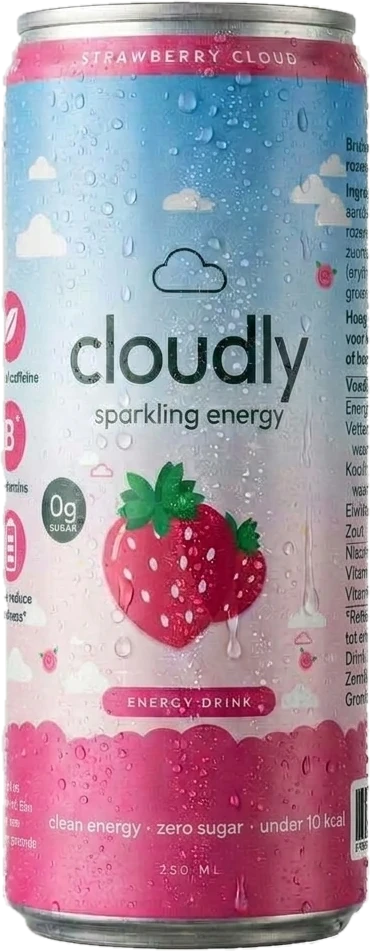
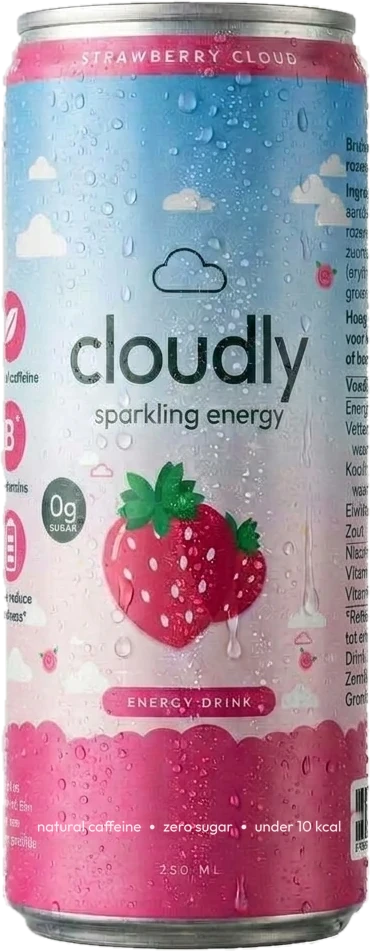
Can photo: replace 'clean energy' line with 'natural caffeine • zero sugar • under 10 kcal'
Claude-Session: https://claude.ai/code/session_015Aff97EdtKyYaoNHtg5nGv

Changed region(s): [[0.0892, 0.8538, 0.9811, 0.8843]]

diff --git a/public/index.html b/public/index.html
@@ -860,7 +860,7 @@ footer p { margin: 0; color: var(--ink); font-size: 14px }
       '<rect x="4" y="14" width="100" height="238" fill="url(#' + id + ')"/></g>' +
       '<rect x="14" y="248" width="80" height="10" rx="5" fill="url(#m' + id + ')"/></svg>';
   }
-  const CANPH = '/photos/strawberry-cloud-can.webp?v=3';
+  const CANPH = '/photos/strawberry-cloud-can.webp?v=4';
   const IMG = { grapefruit: CANPH };
   function canPic(key) { return IMG[key] ? '<img class="can3d" src="' + IMG[key] + '" alt="Cloudly ' + FL[key].name + ' can">' : can(key); }
 

diff --git a/public/community-en.html b/public/community-en.html
@@ -142,7 +142,7 @@ footer a{color:inherit}
     <div class="canwrap" aria-hidden="true">
       <div class="polaroid p1"><i></i><b>@you</b></div>
       <div class="polaroid p2"><i></i><b>@you, too</b></div>
-      <img src="/photos/strawberry-cloud-can.webp?v=3" alt="" width="400" height="900">
+      <img src="/photos/strawberry-cloud-can.webp?v=4" alt="" width="400" height="900">
     </div>
   </div>
 

diff --git a/public/community.html b/public/community.html
@@ -142,7 +142,7 @@ footer a{color:inherit}
     <div class="canwrap" aria-hidden="true">
       <div class="polaroid p1"><i></i><b>@you</b></div>
       <div class="polaroid p2"><i></i><b>@you, too</b></div>
-      <img src="/photos/strawberry-cloud-can.webp?v=3" alt="" width="400" height="900">
+      <img src="/photos/strawberry-cloud-can.webp?v=4" alt="" width="400" height="900">
     </div>
   </div>
 
